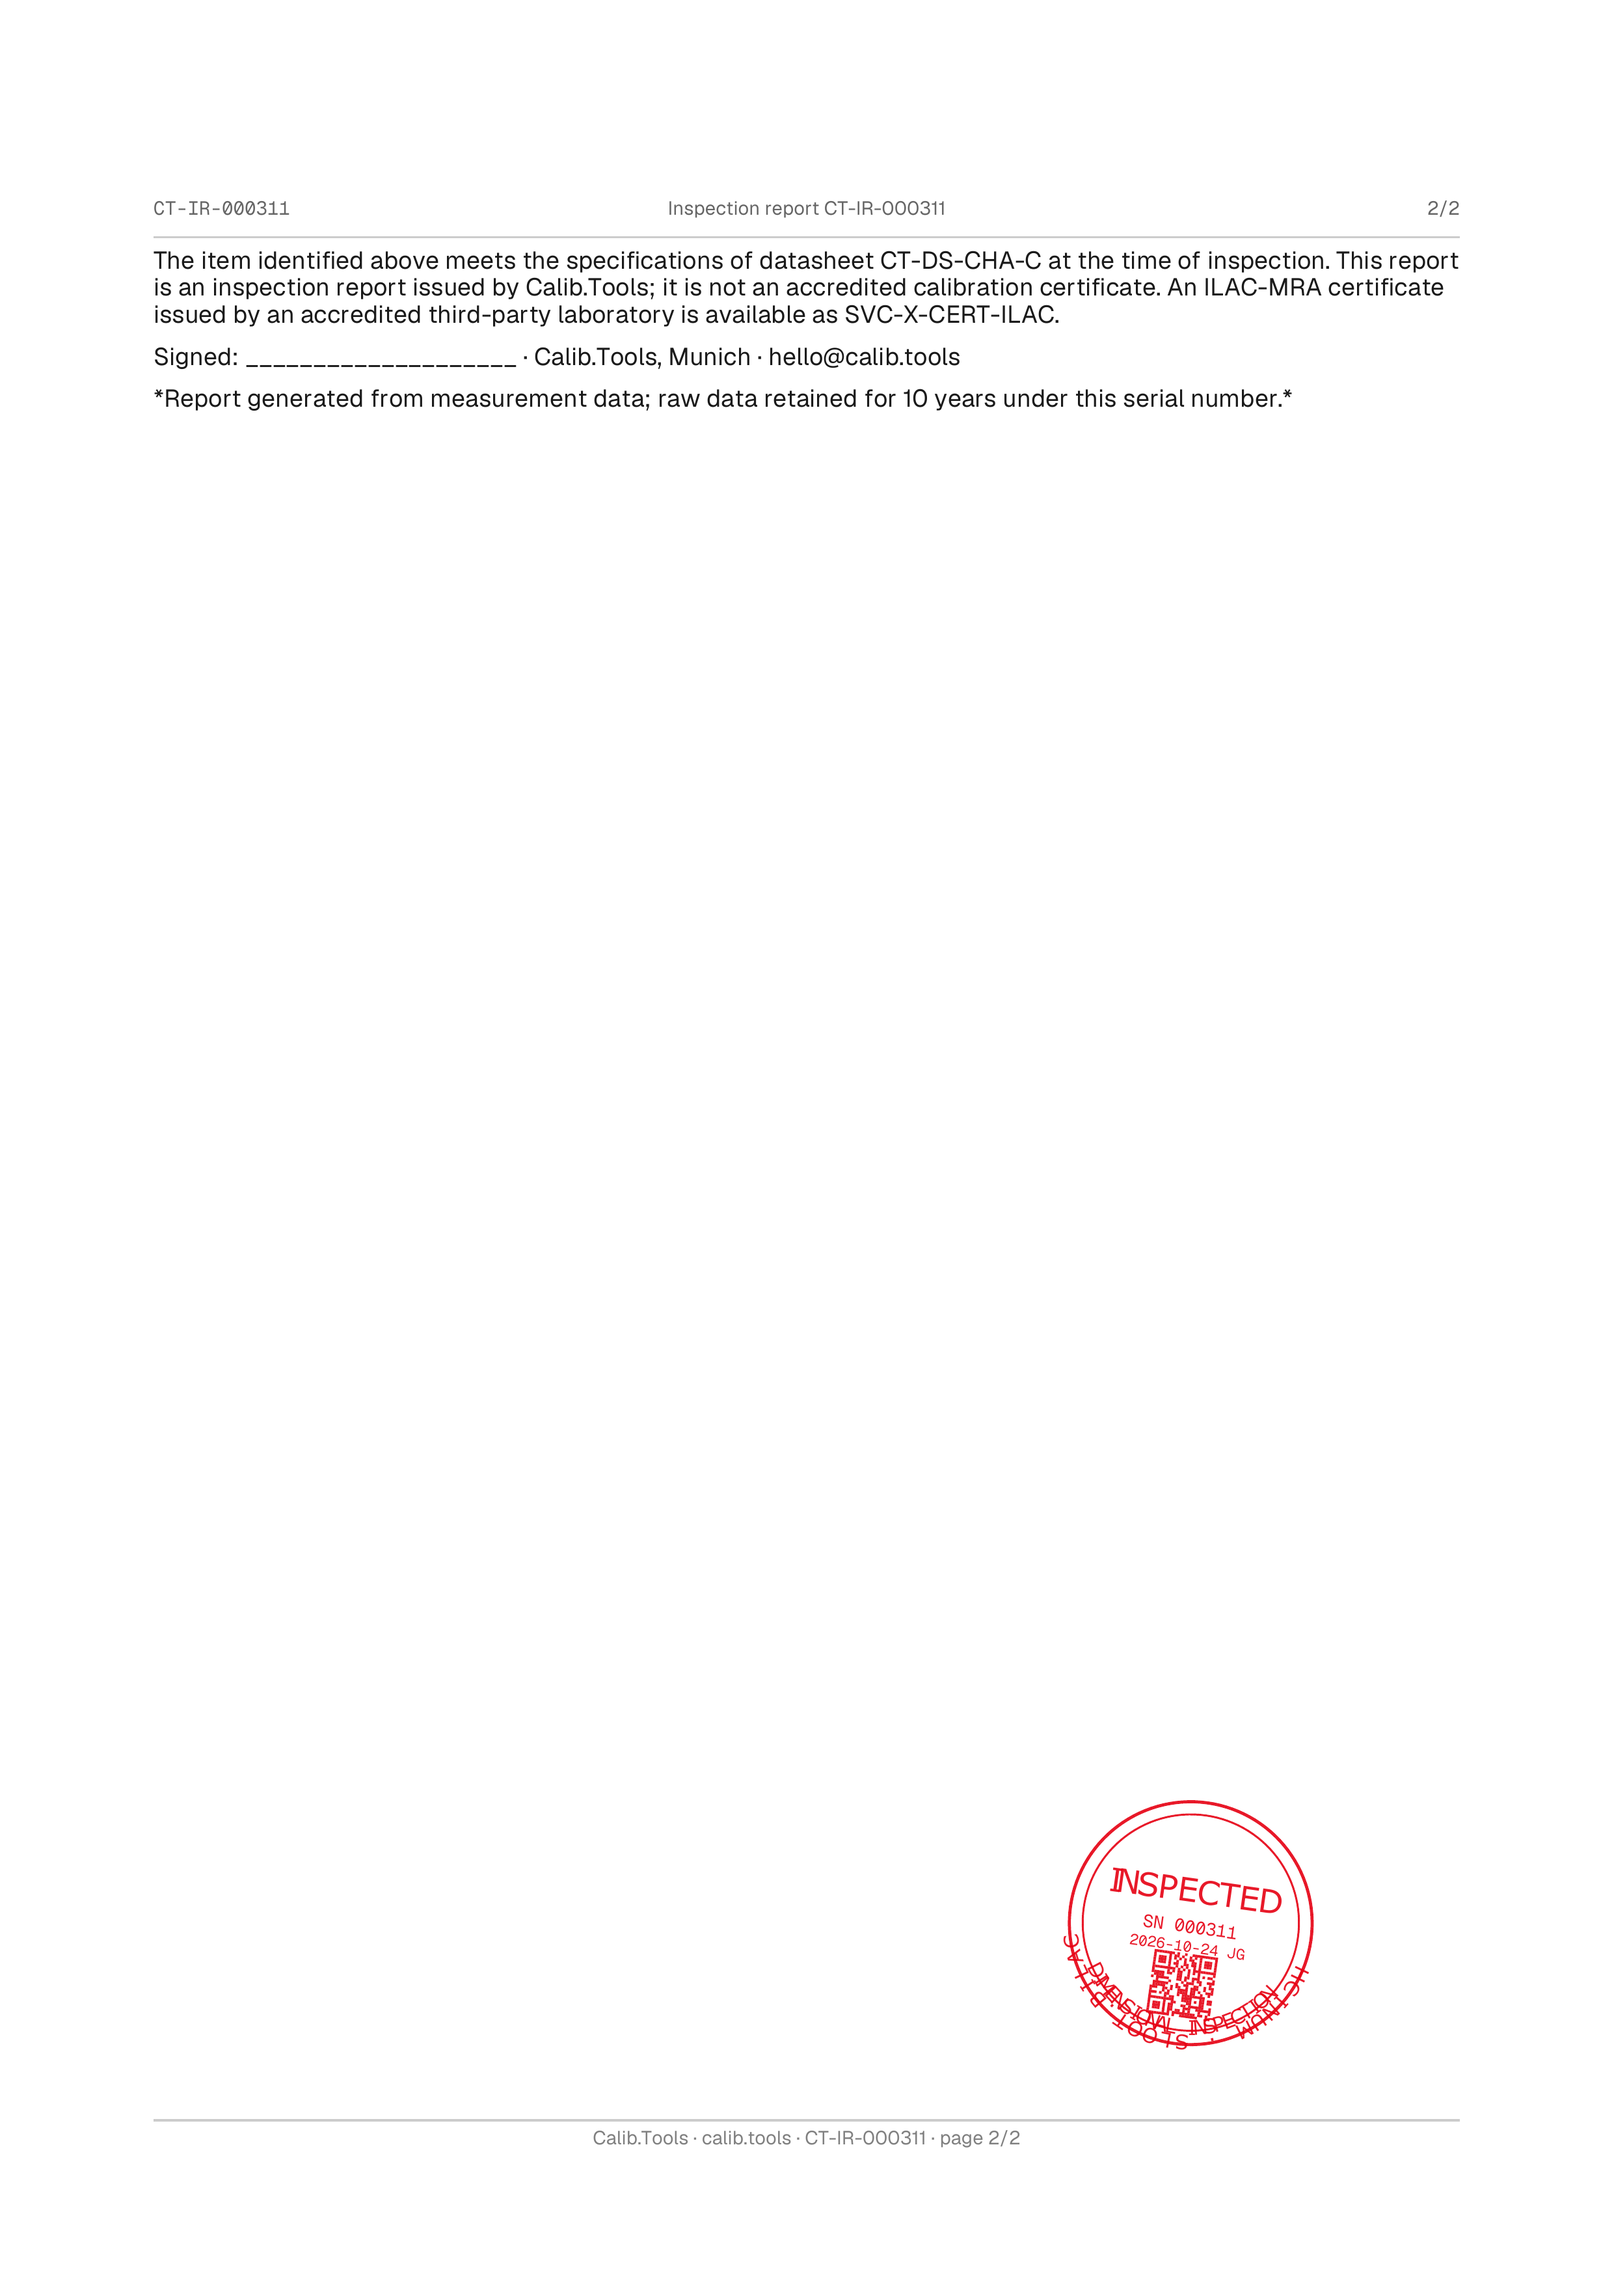
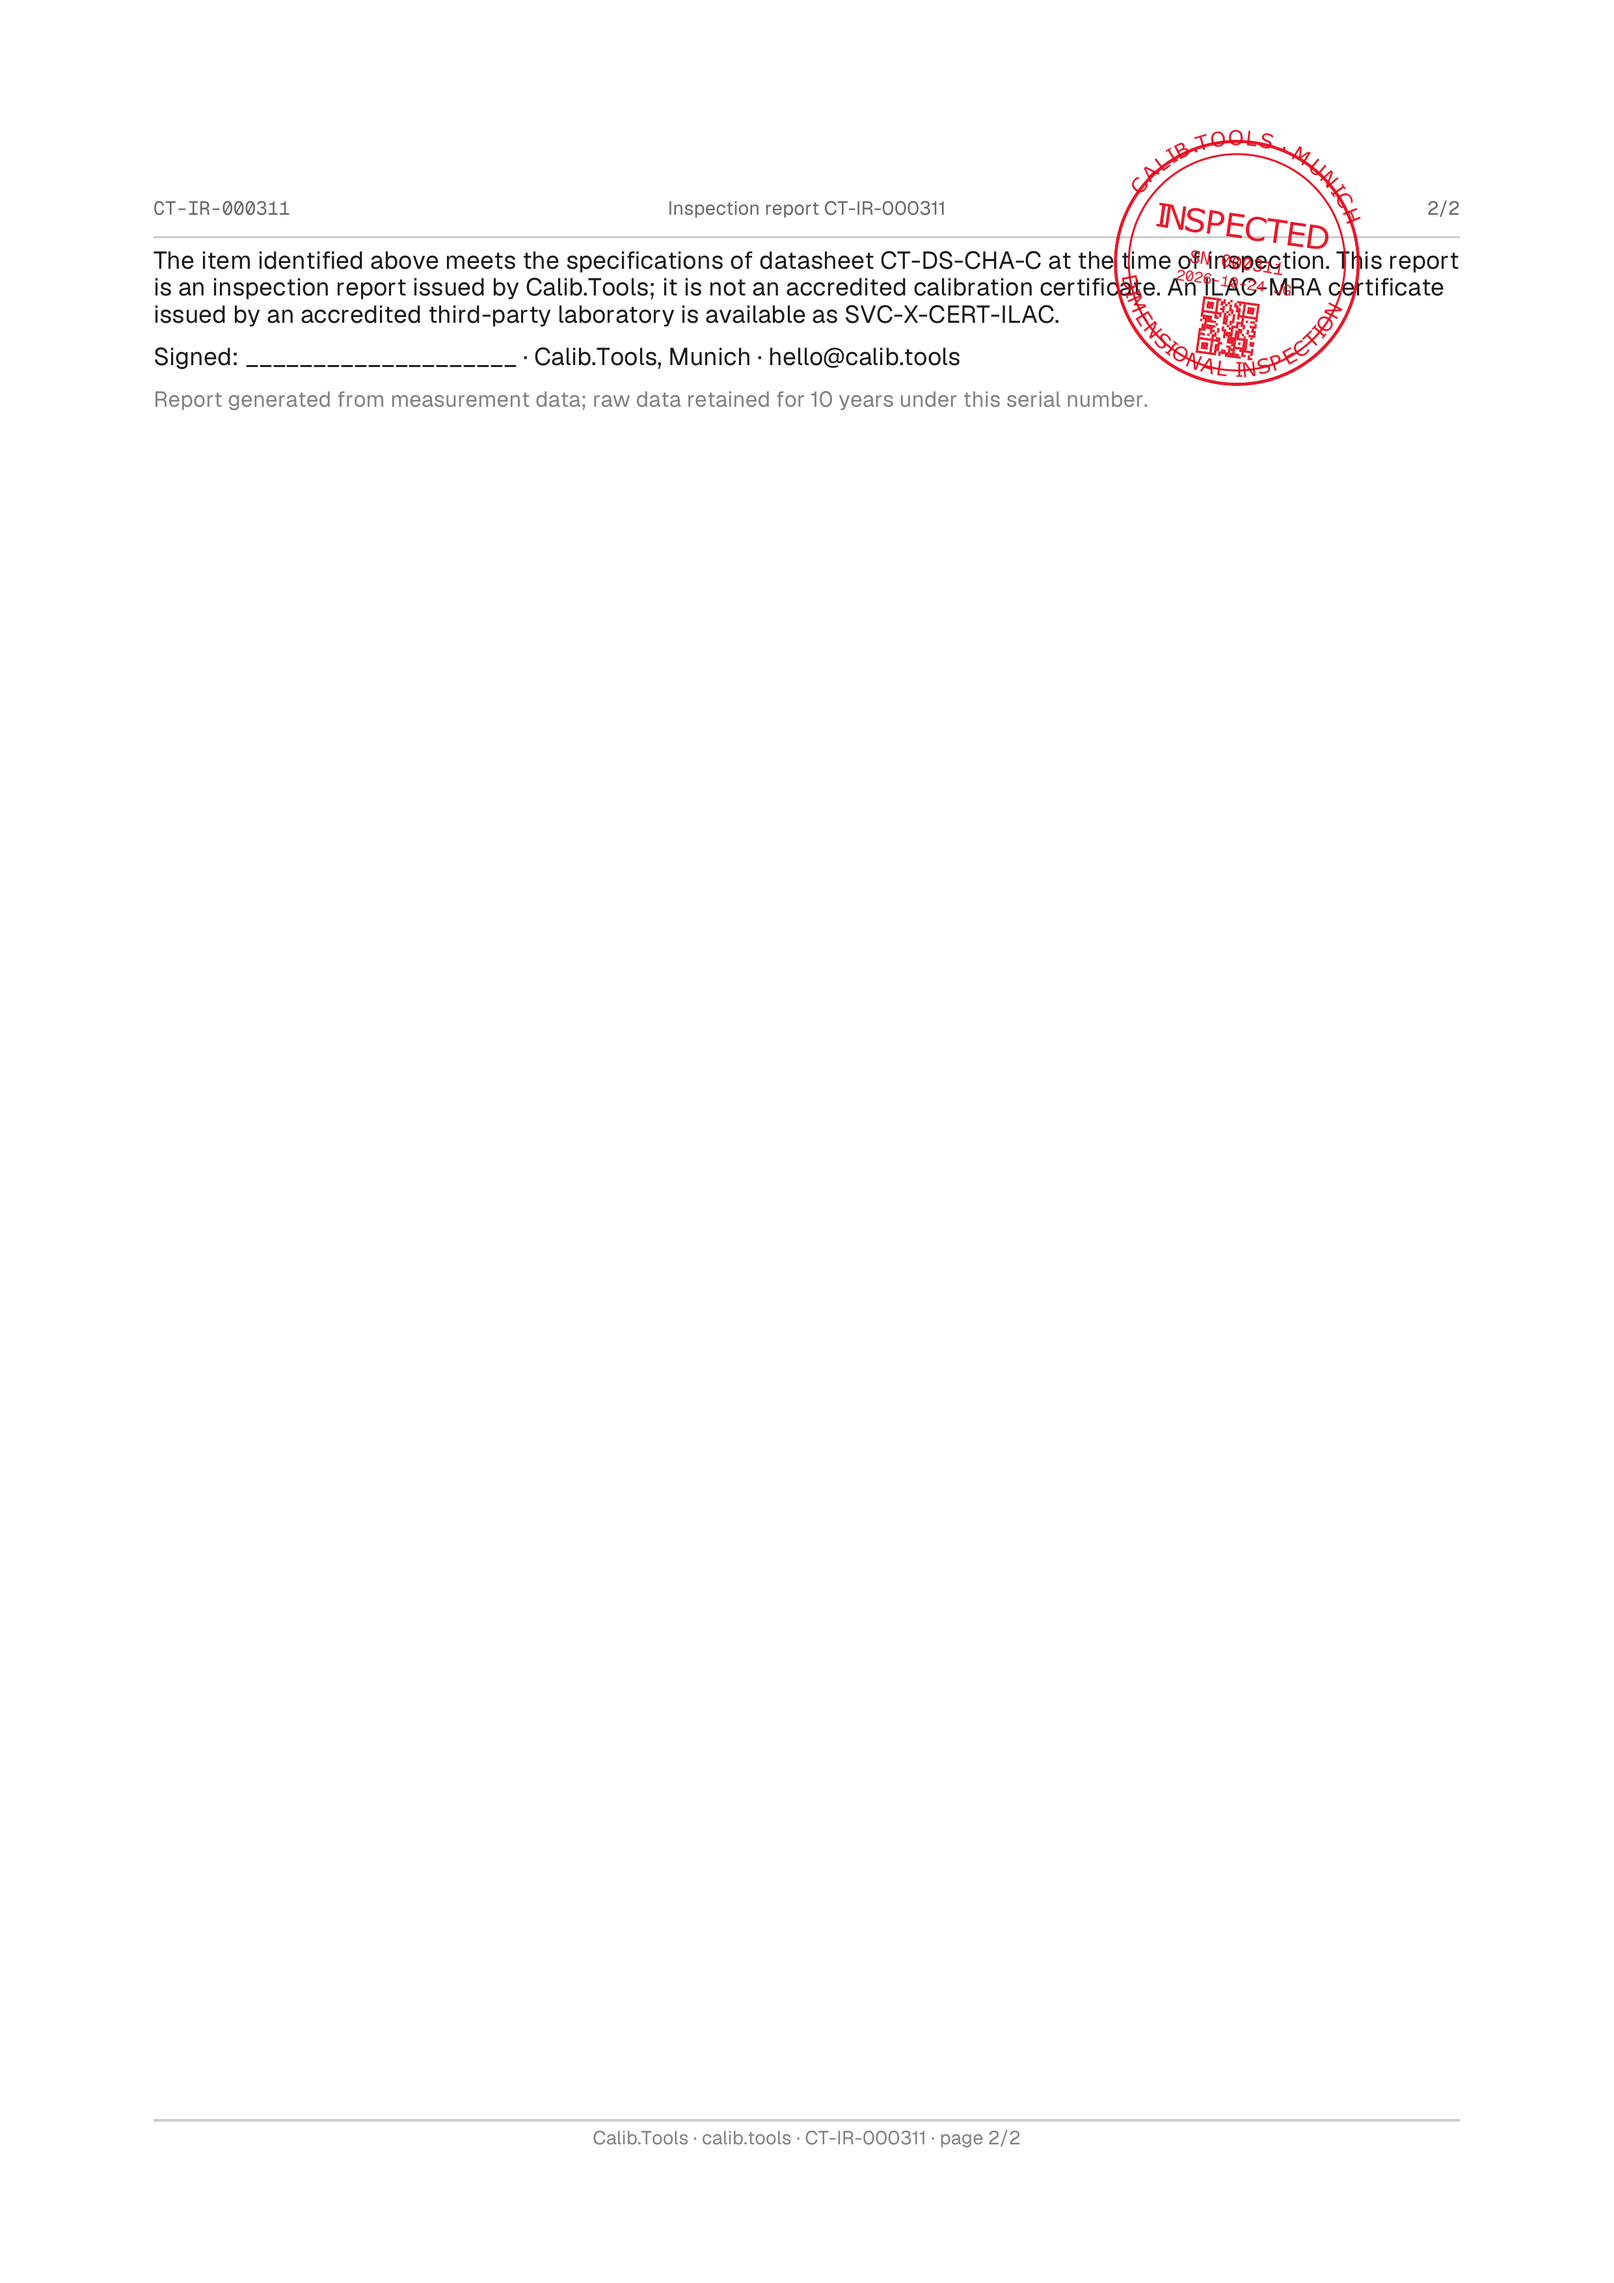
fix(report): stamp position relative to signature, re-render 000311
Return signatureY from renderDatasheetPdf(), place stamp so lower edge
crosses signature baseline by 2–3 mm with page-overflow guard. Re-render
000311.pdf with all fixes: arc text, pixel font, grey disclaimer,
location placeholder, correct stamp position.

Changed region(s): [[0.0931, 0.0621, 0.838, 0.1864], [0.6518, 0.8079, 0.8069, 0.9011]]

diff --git a/src/lib/datasheetPdf.test.ts b/src/lib/datasheetPdf.test.ts
@@ -127,7 +127,7 @@ describe('parseMarkdown table parsing', () => {
 describe('renderDatasheetPdf', () => {
   it('produces valid PDF bytes', async () => {
     const blocks = parseMarkdown('## Test\n\nHello world.\n');
-    const bytes = await renderDatasheetPdf({ meta: sampleMeta, blocks, fontBytes });
+    const { bytes } = await renderDatasheetPdf({ meta: sampleMeta, blocks, fontBytes });
     const header = new TextDecoder().decode(bytes.slice(0, 5));
     expect(header).toBe('%PDF-');
     expect(bytes.length).toBeGreaterThan(1000);
@@ -135,17 +135,17 @@ describe('renderDatasheetPdf', () => {
 
   it('manifest sha256 matches file content', async () => {
     const blocks = parseMarkdown('## Test\n\nContent.\n');
-    const bytes = await renderDatasheetPdf({ meta: sampleMeta, blocks, fontBytes });
+    const { bytes } = await renderDatasheetPdf({ meta: sampleMeta, blocks, fontBytes });
     const hash = createHash('sha256').update(Buffer.from(bytes)).digest('hex');
     // Render again — should produce same hash (deterministic)
-    const bytes2 = await renderDatasheetPdf({ meta: sampleMeta, blocks, fontBytes });
+    const { bytes: bytes2 } = await renderDatasheetPdf({ meta: sampleMeta, blocks, fontBytes });
     const hash2 = createHash('sha256').update(Buffer.from(bytes2)).digest('hex');
     expect(hash).toBe(hash2);
   });
 
   it('page dimensions are A4 (210x297mm)', async () => {
     const blocks = parseMarkdown('## Test\n\nParagraph.\n');
-    const bytes = await renderDatasheetPdf({ meta: sampleMeta, blocks, fontBytes });
+    const { bytes } = await renderDatasheetPdf({ meta: sampleMeta, blocks, fontBytes });
     const doc = await PDFDocument.load(bytes);
     const page = doc.getPage(0);
     const { width, height } = page.getSize();
@@ -161,7 +161,7 @@ describe('renderDatasheetPdf', () => {
     ].join('\n');
 
     const blocks = parseMarkdown(longContent);
-    const bytes = await renderDatasheetPdf({ meta: sampleMeta, blocks, fontBytes });
+    const { bytes } = await renderDatasheetPdf({ meta: sampleMeta, blocks, fontBytes });
     const doc = await PDFDocument.load(bytes);
 
     // Check that the PDF has multiple pages (long content should overflow)
@@ -185,7 +185,7 @@ describe('renderDatasheetPdf', () => {
 | B | 200 mm | 400 g |
 `;
     const blocks = parseMarkdown(md);
-    const bytes = await renderDatasheetPdf({ meta: sampleMeta, blocks, fontBytes });
+    const { bytes } = await renderDatasheetPdf({ meta: sampleMeta, blocks, fontBytes });
     expect(bytes.length).toBeGreaterThan(1000);
     const doc = await PDFDocument.load(bytes);
     expect(doc.getPageCount()).toBeGreaterThanOrEqual(1);
@@ -194,10 +194,10 @@ describe('renderDatasheetPdf', () => {
   it('renders DRAFT watermark when status is draft', async () => {
     const blocks = parseMarkdown('## Test\n\nDraft content.\n');
     const draftMeta = { ...sampleMeta, status: 'draft' as const };
-    const draftBytes = await renderDatasheetPdf({ meta: draftMeta, blocks, fontBytes });
+    const { bytes: draftBytes } = await renderDatasheetPdf({ meta: draftMeta, blocks, fontBytes });
 
     const releasedMeta = { ...sampleMeta, status: 'released' as const };
-    const releasedBytes = await renderDatasheetPdf({ meta: releasedMeta, blocks, fontBytes });
+    const { bytes: releasedBytes } = await renderDatasheetPdf({ meta: releasedMeta, blocks, fontBytes });
 
     // Draft PDF should be larger due to watermark text on each page
     expect(draftBytes.length).toBeGreaterThan(releasedBytes.length);
@@ -212,7 +212,7 @@ describe('renderDatasheetPdf', () => {
 `;
     const blocks = parseMarkdown(md);
     expect(blocks.some((b) => b.type === 'bullet')).toBe(true);
-    const bytes = await renderDatasheetPdf({ meta: sampleMeta, blocks, fontBytes });
+    const { bytes } = await renderDatasheetPdf({ meta: sampleMeta, blocks, fontBytes });
     expect(bytes.length).toBeGreaterThan(1000);
   });
 });
